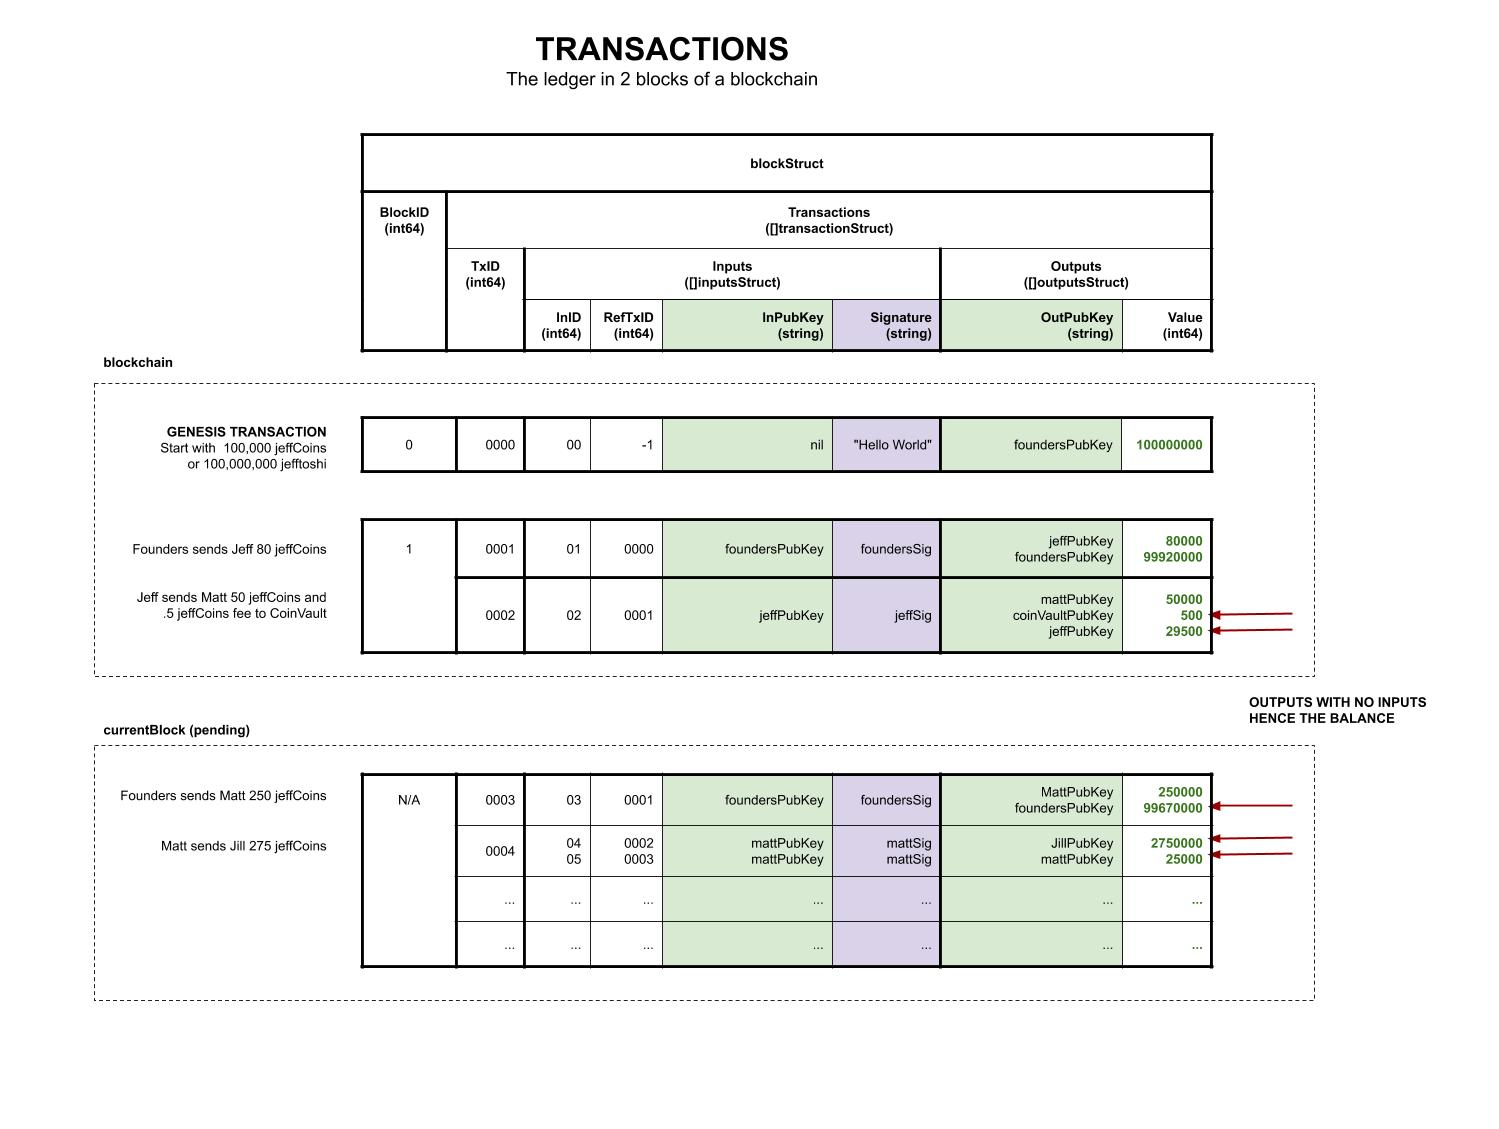
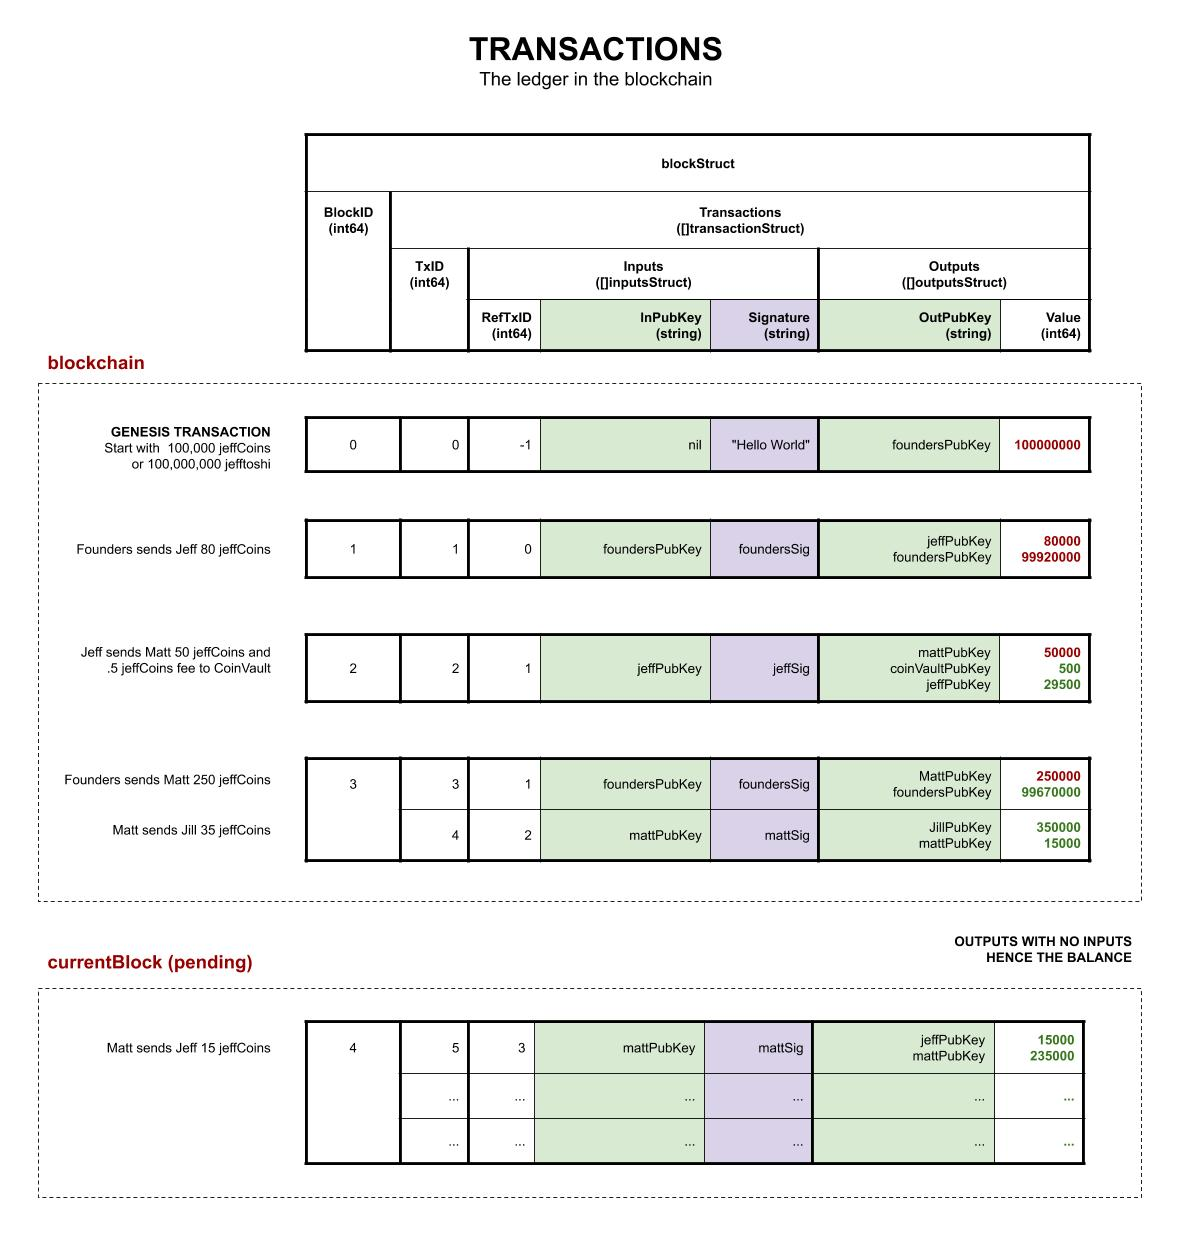
completed bitcoin-ledger

diff --git a/blockchain/bitcoin-ledger/bitcoin-ledger.go b/blockchain/bitcoin-ledger/bitcoin-ledger.go
@@ -6,6 +6,7 @@ import (
 	"encoding/json"
 	"fmt"
 	"os"
+	"sort"
 	"strconv"
 
 	log "github.com/sirupsen/logrus"
@@ -63,7 +64,6 @@ type transactionStruct struct {
 }
 
 type inputsStruct struct {
-	InID      int64  `json:"inID"`
 	RefTxID   int64  `json:"refTxID"`
 	InPubKey  string `json:"inPubKey"`
 	Signature string `json:"signature"`
@@ -158,12 +158,11 @@ func (trms txRequestMessageSignedStruct) processTransactionRequest() string {
 		return "Signature failed"
 	}
 
-	// STEP 2 - MOCK - CHECK BALANCE TO SEE IF YOU HAVE THE MONEY
+	// STEP 2 - CHECK BALANCE TO SEE IF YOU HAVE THE MONEY
 	// Returns entire list of the TxID of output unspent transactions
-	s = "STEP 2 - MOCK - CHECK BALANCE TO SEE IF YOU HAVE THE MONEY"
+	s = "STEP 2 - CHECK BALANCE TO SEE IF YOU HAVE THE MONEY"
 	log.Info("processTransactionRequest()      " + s)
-	balance, unspentOutput := getBalance(trms.TxRequestMessage.SourceAddress, trms.TxRequestMessage.Destinations[0].DestinationAddress)
-	balance1, unspentOutput1 := getBalance1(trms.TxRequestMessage.SourceAddress, trms.TxRequestMessage.Destinations[0].DestinationAddress)
+	balance, unspentOutput := getBalance(trms.TxRequestMessage.SourceAddress)
 
 	// STEP 3 - CHECK IF YOU HAVE ENOUGH jeffCoins
 	s = "STEP 3 - CHECK IF YOU HAVE ENOUGH jeffCoins"
@@ -174,9 +173,6 @@ func (trms txRequestMessageSignedStruct) processTransactionRequest() string {
 	}
 	s = "The balance for " + trms.TxRequestMessage.SourceAddress + " is " + strconv.FormatInt(balance, 10) +
 		" and value to remove is " + strconv.FormatInt(value, 10) + " from " + fmt.Sprint(unspentOutput)
-	log.Info("processTransactionRequest()      " + s)
-	s = "The balance for " + trms.TxRequestMessage.SourceAddress + " is " + strconv.FormatInt(balance1, 10) +
-		" and value to remove is " + strconv.FormatInt(value, 10) + " from " + fmt.Sprint(unspentOutput1)
 	log.Info("processTransactionRequest()      " + s)
 	if balance < value {
 		return "Not enough money"
@@ -211,50 +207,14 @@ func (trms txRequestMessageSignedStruct) verifySignature() bool {
 
 }
 
-// STEP 2 - MOCK - CHECK BALANCE TO SEE IF YOU HAVE THE MONEY
-func getBalance(sourceAddress string, destinationAddress string) (int64, []unspentOutputStruct) {
-
-	unspentOutputSlice := []unspentOutputStruct{{0, 0}}
-
-	// STEP 2.1 - GET UNSPENT OUTPUT TRANSACTIONS
-	s := "STEP 2.1 - GET UNSPENT OUTPUT TRANSACTIONS"
-	log.Info("getBalance()                     " + s)
-	if sourceAddress == "Founders PubKey" {
-		if destinationAddress == "Jeffs PubKey" {
-			unspentOutputSlice = []unspentOutputStruct{{0, 100000000}}
-		} else {
-			unspentOutputSlice = []unspentOutputStruct{{1, 99920000}}
-		}
-	}
-	if sourceAddress == "Jeffs PubKey" {
-		unspentOutputSlice = []unspentOutputStruct{{1, 80000}}
-	}
-	if sourceAddress == "Matts PubKey" {
-		if destinationAddress == "Jeffs PubKey" {
-			unspentOutputSlice = []unspentOutputStruct{{3, 250000}, {4, 15000}}
-		} else {
-			unspentOutputSlice = []unspentOutputStruct{{2, 50000}, {3, 250000}}
-		}
-	}
-
-	// STEP 2.2 - GET BALANCE
-	s = "STEP 2.2 - GET BALANCE"
-	log.Info("getBalance()                     " + s)
-	var balance int64
-	balance = 0
-	for _, unspentOutput := range unspentOutputSlice {
-		balance = balance + unspentOutput.Value
-	}
-
-	return balance, unspentOutputSlice
-
-}
-
 // STEP 2 - CHECK BALANCE TO SEE IF YOU HAVE THE MONEY
 // Returns entire list of the TxID of output unspent transactions
-func getBalance1(sourceAddress string, destinationAddress string) (int64, []unspentOutputStruct) {
+func getBalance(address string) (int64, []unspentOutputStruct) {
 
-	unspentOutputSlice := []unspentOutputStruct{{0, 0}}
+	unspentOutputMap := make(map[int64]int64)
+
+	var unspentOutput unspentOutputStruct
+	unspentOutputSlice := []unspentOutputStruct{}
 
 	// STEP 2.1 - GET UNSPENT OUTPUT TRANSACTIONS - Make unspentOutputSlice
 	s := "STEP 2.1 - GET UNSPENT OUTPUT TRANSACTIONS  - Make unspentOutputSlice"
@@ -262,10 +222,41 @@ func getBalance1(sourceAddress string, destinationAddress string) (int64, []unsp
 
 	// LETS ITERATE OVER ALL TRANSACTIONS IN BLOCK CHAIN
 	for _, blocks := range blockchain {
+
 		for _, transaction := range blocks.Transactions {
-			fmt.Printf("transaction %v\n", transaction)
+
+			// ITERATE OVER INPUTS - find inputs with address
+			for _, input := range transaction.Inputs {
+				if address == input.InPubKey {
+					// DID AN OUTPUT USE THIS? If so, delete from map.
+					refTxID := input.RefTxID
+					if unspentOutputMap[refTxID] != 0 {
+						delete(unspentOutputMap, refTxID)
+					}
+				}
+
+			}
+
+			// ITERATE OVER OUTPUTS - find outputs with address
+			for _, output := range transaction.Outputs {
+				if address == output.OutPubKey {
+					// Place in map
+					unspentOutputMap[transaction.TxID] = output.Value
+				}
+			}
 		}
 	}
+
+	// PUT MAP unspentOutputMap IN SLICE unspentOutputSlice
+	for k, v := range unspentOutputMap {
+		unspentOutput = unspentOutputStruct{k, v}
+		unspentOutputSlice = append(unspentOutputSlice, unspentOutput)
+	}
+
+	// SORT SLICE FROM TxID (LOW TO HIGH)
+	sort.Slice(unspentOutputSlice, func(i, j int) bool {
+		return unspentOutputSlice[i].TxID < unspentOutputSlice[j].TxID
+	})
 
 	// STEP 2.2 - GET BALANCE from unspentOutputSlice
 	s = "STEP 2.2 - GET BALANCE from unspentOutputSlice"
@@ -329,8 +320,6 @@ func (trms txRequestMessageSignedStruct) loadTRMSignedToCurrentBlock(unspentOutp
 	var inputsTemp = inputsStruct{}
 	var inputsSlice []inputsStruct
 
-	inputsTemp.InID = 22222222
-
 	// Using the following unspent outputs
 	for _, unspentOutput := range unspentOutputSlice {
 		inputsTemp.RefTxID = unspentOutput.TxID
@@ -371,9 +360,9 @@ func (trms txRequestMessageSignedStruct) loadTRMSignedToCurrentBlock(unspentOutp
 	}
 
 	//-------------------------------------------------------
-	// STEP 5.3 - BUILD THE TRANSACTON
+	// STEP 5.3 - BUILD THE TRANSACTION
 	//-------------------------------------------------------
-	s = "STEP 5.3 - BUILD THE TRANSACTON"
+	s = "STEP 5.3 - BUILD THE TRANSACTION"
 	log.Info("loadTRMSignedToCurrentBlock()    " + s)
 	var transactionTemp = transactionStruct{}
 
@@ -450,10 +439,21 @@ func main() {
 	log.Info("main()                           " + s)
 	receivingTransaction(txRequestMessageSignedDataString1)
 	receivingTransaction(txRequestMessageSignedDataStringBad)
+
+	// ADD currentBlock TO THE blockchain
+	s = "ADD currentBlock TO THE blockchain. Adding block number " + fmt.Sprint(currentBlock.BlockID)
+	log.Info("main()                           " + s)
+	blockchain = append(blockchain, currentBlock)
+
+	// RESET currentBlock
+	s = "RESET currentBlock"
+	log.Info("main()                           " + s)
+	resetCurrentBlock()
+
 	receivingTransaction(txRequestMessageSignedDataString2)
 
 	// ADD currentBlock TO THE blockchain
-	s = "ADD currentBlock TO THE blockchain"
+	s = "ADD currentBlock TO THE blockchain. Adding block number " + fmt.Sprint(currentBlock.BlockID)
 	log.Info("main()                           " + s)
 	blockchain = append(blockchain, currentBlock)
 
@@ -469,7 +469,7 @@ func main() {
 	receivingTransaction(txRequestMessageSignedDataString4)
 
 	// ADD currentBlock TO THE blockchain
-	s = "ADD currentBlock TO THE blockchain"
+	s = "ADD currentBlock TO THE blockchain. Adding block number " + fmt.Sprint(currentBlock.BlockID)
 	log.Info("main()                           " + s)
 	blockchain = append(blockchain, currentBlock)
 
@@ -493,7 +493,13 @@ func main() {
 	js, _ = json.MarshalIndent(currentBlock, "", "    ")
 	fmt.Printf("%v\n\n", string(js))
 
-	// balance := showbalance(mattPubKey)
-	//fmt.Printf("The balance for %s is %d\n\n", mattPubKey, balance)
+	balance, _ := getBalance(foundersPubKey)
+	fmt.Printf("The balance for %s is %d\n\n", foundersPubKey, balance)
+	balance, _ = getBalance(jeffPubKey)
+	fmt.Printf("The balance for %s is %d\n\n", jeffPubKey, balance)
+	balance, _ = getBalance(mattPubKey)
+	fmt.Printf("The balance for %s is %d\n\n", mattPubKey, balance)
+	balance, _ = getBalance(coinVaultPubKey)
+	fmt.Printf("The balance for %s is %d\n\n", coinVaultPubKey, balance)
 
 }

diff --git a/blockchain/bitcoin-ledger/README.md b/blockchain/bitcoin-ledger/README.md
@@ -5,24 +5,26 @@ _Demonstrates the bitcoin ledger in a blockchain using the
 
 Table of Contents,
 
-* tbd
+* [PREREQUISITES](https://github.com/JeffDeCola/my-go-examples/tree/master/blockchain/bitcoin-ledger#prerequisites)
+* [OVERVIEW](https://github.com/JeffDeCola/my-go-examples/tree/master/blockchain/bitcoin-ledger#overview)
+* [THIS EXAMPLE](https://github.com/JeffDeCola/my-go-examples/tree/master/blockchain/bitcoin-ledger#this-example)
+* [TRANSACTIONS IN LEDGER](https://github.com/JeffDeCola/my-go-examples/tree/master/blockchain/bitcoin-ledger#transactions-in-ledger)
+* [ADDING A TRANSACTION TO currentBlock](https://github.com/JeffDeCola/my-go-examples/tree/master/blockchain/bitcoin-ledger#adding-a-transaction-to-currentblock)
+* [RUN](https://github.com/JeffDeCola/my-go-examples/tree/master/blockchain/bitcoin-ledger#run)
 
 [GitHub Webpage](https://jeffdecola.github.io/my-go-examples/)
 
 ## PREREQUISITES
 
 ```bash
-tbd
+go get -u -v github.com/sirupsen/logrus
 ```
 
 ## OVERVIEW
 
 An **unspent transaction output model** is a method to log the transactions
-of coins in a cryptocurrency.  It uses an input/output model and has
-the following rules,
-
-* Every input must have an output.
-* tbd
+of coins in a cryptocurrency.  It uses an input/output model were
+every input must have an output.
 
 ## THIS EXAMPLE
 
@@ -30,30 +32,50 @@ The first block in the blockchain will contain 1 transaction.  That will be the
 founders initial value of 100,000,000 (or 100,000 jeffCoins). Each jeffCoin
 has a value of 1,000 jefftoshi. Yup.
 
-There will be 4 transactions thereafter,
+There will be 5 transaction requests thereafter,
 
-* Founders sends Jeff 80 jeffCoins
-* Jeff sends Matt 50 jeffCoins and .5 jeffCoins fee to CoinVault
-* Founders sends Matt 250 jeffCoins
-* Matt sends Jill 275 jeffCoins
+* Block 0 (Genesis Block)
+  * Founders start with  100,000 jeffCoins
+* Block 1
+  * Founders sends Jeff 80 jeffCoins
+* Block 2  
+  * Jeff sends Matt 50 jeffCoins and a .5 jeffCoins fee to CoinVault
+* Block 3  
+  * Founders sends Matt 250 jeffCoins
+  * Matt sends Jill 35 jeffCoins
+* currentBlock
+  * Matt send Jeff 15 Coins
+
+The currentBlock is pending, meaning it needs to be verified by other nodes.
+So this block will not have any value until added to the chain.
 
 ## TRANSACTIONS IN LEDGER
 
-This illustrations shows the ledger starting point and the transaction
-we're going to add,
+This illustrations shows the ledger in hte blockchain and currentBlock,
 
 ![IMAGE - bitcoin-unspent-transactions-ledger - IMAGE](../../docs/pics/bitcoin-unspent-transactions-ledger.jpg)
 
-This illustration shows a visual look at how the transaction relate to each other,
+This illustration shows a visual look at how the transactions relate
+(input/output) to each other in the blockchain,
+
 ![IMAGE - bitcoin-unspent-transactions-ledger-flow - IMAGE](../../docs/pics/bitcoin-unspent-transactions-ledger-flow.jpg)
 
-## ADDING A TRANSACTION
+## ADDING A TRANSACTION TO currentBlock
 
-tbd
+Here are the steps when adding a transaction request to the currentBlock,
 
-## GETTING A BALANCE
-
-tbd
+* STEP 1 - MOCK - VERIFY SIGNATURE
+* STEP 2 - MOCK - CHECK BALANCE TO SEE IF YOU HAVE THE MONEY
+  * STEP 2.1 - GET UNSPENT OUTPUT TRANSACTIONS  - Make unspentOutputSlice
+  * STEP 2.2 - GET BALANCE from unspentOutputSlice
+* STEP 3 - CHECK IF YOU HAVE ENOUGH jeffCoins
+* STEP 4 - PICK THE UNSPENT OUTPUTS TO USE AND PROVIDE CHANGE
+* STEP 5 - LOAD currentBlock WITH TRANSACTION and MAKE CHANGE
+  * STEP 5.1 - BUILD INPUT STRUCT FOR EACH UNSPENT OUTPUT
+  * STEP 5.2 - BUILD OUTPUT STRUCT
+  * STEP 5.3 - BUILD THE TRANSACTION
+  * STEP 5.4 - PLACE transactionStruct IN transactionSlice
+  * STEP 5.5 - LOAD THE CURRENT BLOCK WITH TRANSACTION
 
 ## RUN
 
